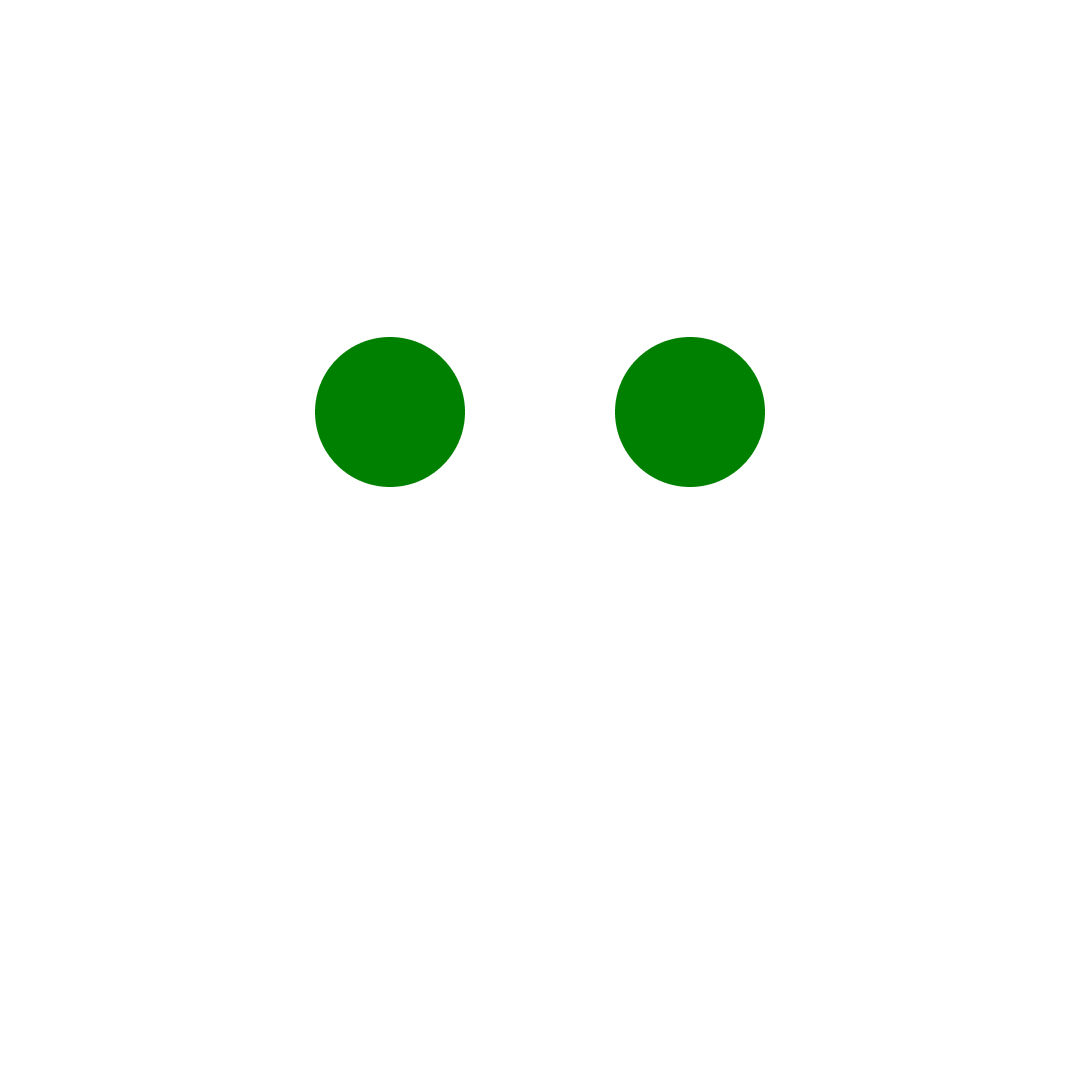
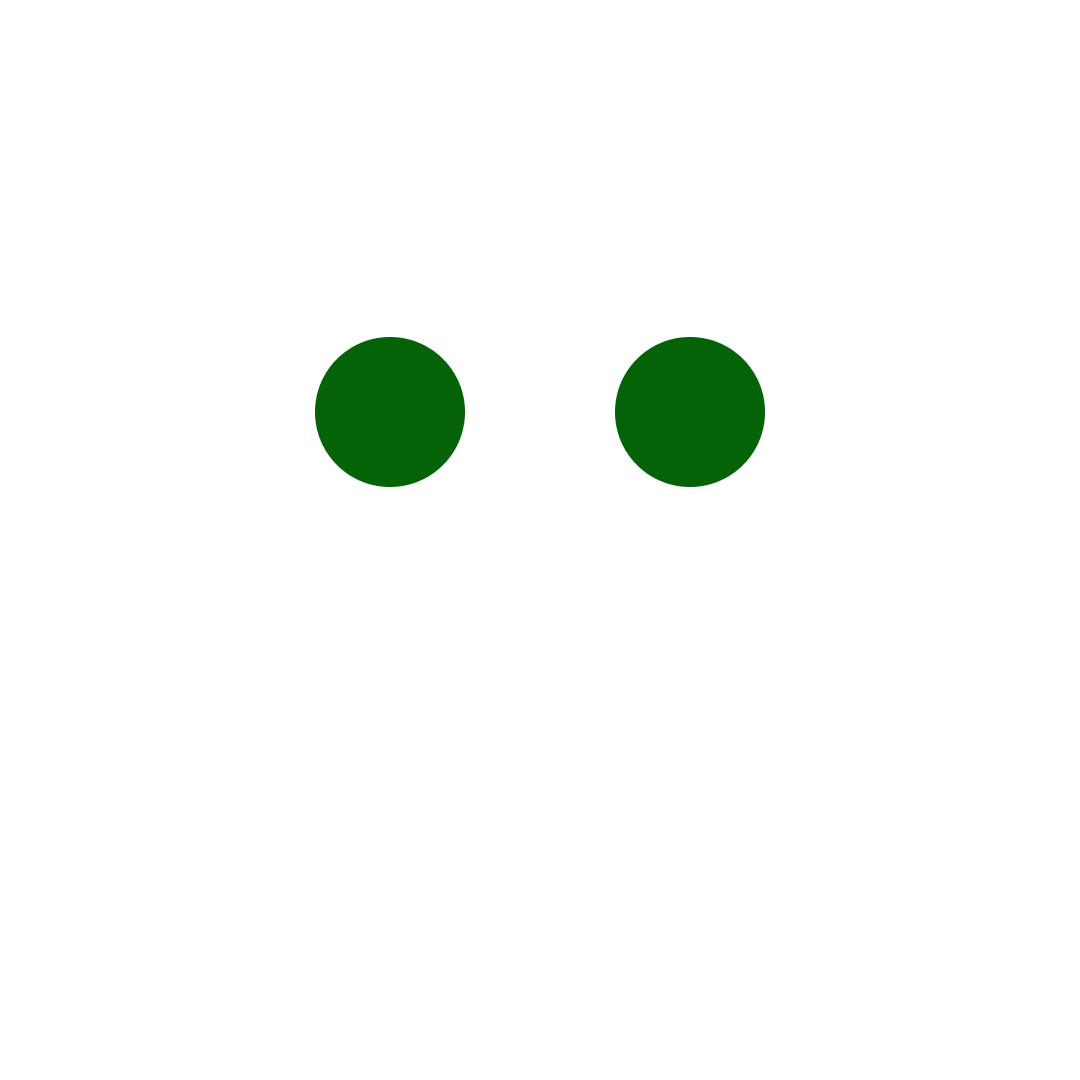
update boy colors

Changed region(s): [[0.55, 0.3056, 0.7333, 0.4583], [0.275, 0.3056, 0.4278, 0.4583]]

diff --git a/pages/api/generate.ts b/pages/api/generate.ts
@@ -109,32 +109,38 @@ async function saveToIPFS(
   return metadata;
 }
 
+// https://www.bullionvault.co.uk/silver-guide/gold-silver-ratio
 const background = {
-  white: 33,
-  black: 33,
-  silver: 33,
-  gold: 1,
+  white: 80,
+  silver: 20,
 };
 
+// https://www.researchgate.net/figure/Percentage-of-face-shapes-type-in-males_tbl2_332926733
 const face = {
-  circle: 25,
-  square: 25,
-  rectangle: 25,
-  elipse: 25,
+  square: 20,
+  oval: 12,
+  round: 41,
+  heart: 3,
+  triangle: 24,
 };
 
+// https://www.researchgate.net/figure/Number-and-percentages-of-hair-colours-in-the-UK-Biobank-cohort-by-gender_tbl1_329405511
 const hair = {
-  black: 48,
-  brown: 48,
-  blonde: 1,
-  red: 1,
-  white: 2,
+  red: 4, // #E25822
+  blonde: 10, // DDCC67
+  sienna: 40,
+  saddlebrown: 37,
+  black: 8,
+  silver: 1,
 };
 
+// https://www.glasses.com/gl-us/blog/rarest-eye-color
 const eyes = {
-  green: 2,
-  blue: 49,
-  brown: 49,
+  green: 9, // #046307
+  hazel: 18, // C8B575
+  blue: 27, // #40B0E0
+  sienna: 45, // sienna
+  grey: 1, // silver
 };
 
 const mouth = {
